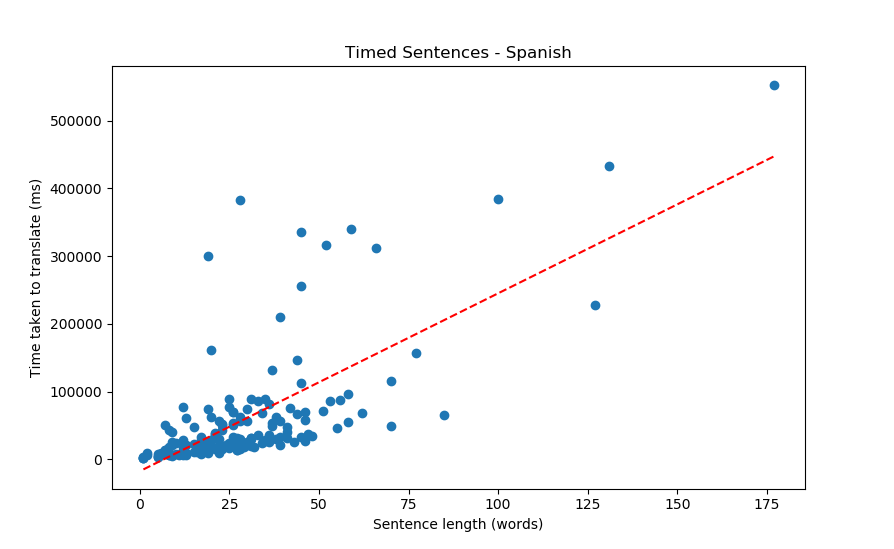
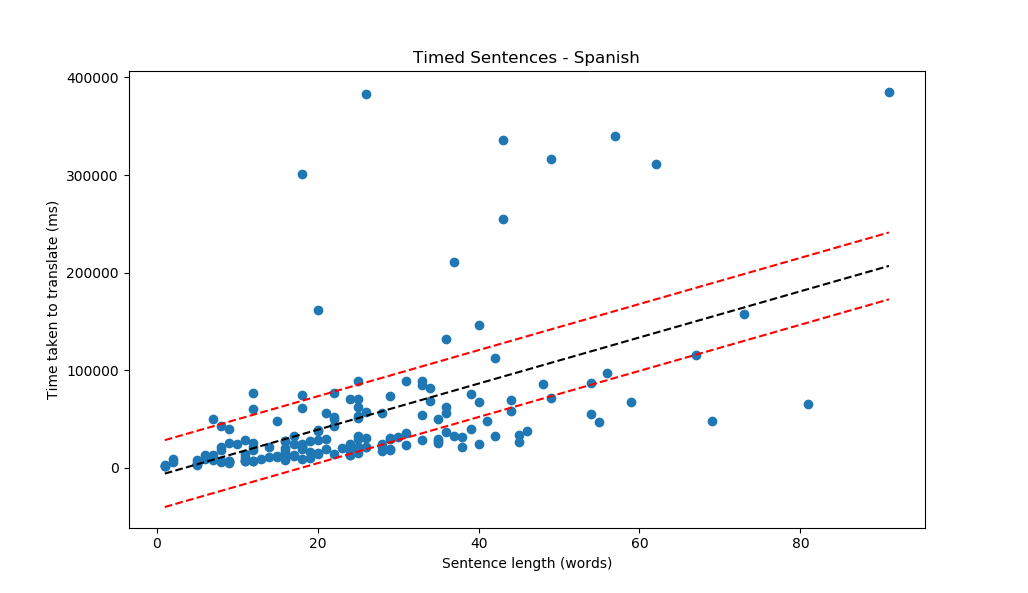
updating MAE lines and crossvalidation

diff --git a/README.md b/README.md
@@ -28,18 +28,18 @@ Need models that can predict TER on a sentence level and words per day on a docu
         * classification [done]    
     + WTO-timed [done]    
 - **2.** Correlation between Biber-dim and TER score:    
-    + UN-parallel (at sentence and document level)
-        * regression [sentence done]
-        * classification [sentece wip]
-    + cross-validation    
+    + UN-parallel (at sentence level)
+        * regression [done]
+        * classification [done]
+    + cross-validation [done]    
 - **3.** Use XLM to vectorise texts and correlate with TER score 
     + regression [done]
     + classification [done]
 - **4.** Use TER score to predict time taken or classify text difficulty [done]   
-    + Build classifiers + cross-validation 
+    + Build classifiers + cross-validation [done]
 - **5.** Use new timed dataset [done]
 
-scores so far (just an indication of what should work or not):
+Top scores so far (just an indication of what should work or not):
 
 | Classification accuracy (3-class) | words per day | TER |
 |-----------------------------------|---------------|-----|
@@ -120,6 +120,9 @@ WTO data has the advantage of including translation times to both French and Spa
 
 It is interesting to note that if outliers are not removed from the combined dataset, the regression becomes quite accurate in the range 0-2500 words per day, however, it also produces significant outliers that throw the entire model off. Could be interesting to only use the model in this range and figure out what produces said outliers (several orders of magnitude wrong).
 
+![UN_OLS](img/biber_wpd_kfold_ols.png)    
+**Figure 6.** Predicted against real values of words translated per day for the UNOG dataset (using biber dimensions and number of words in each document). Cross-validated results with 12 equal splits of data.
+
 Note: before extracting Biber dimensions, it is important to make sure there is one text per line and that there are no empty lines as this will cause _biber-dim.py_ to fail. Each corpus may have it's particular solutions. For example:
 
 ```bash
@@ -141,7 +144,7 @@ Computing the TER on a machine translation gives a score based on the minimum nu
 Note that in order to compute TER, both a machine translation and a human reference are required. See the [pre-processing](scripts/prepare_ter_docs.py) needed to compute TER for the UN corpus as an example. 
 
 ![UN_ES_Histogram](img/un_ter_hist.png)      
-**Figure 6.** Distribution of translation edit rate for machine translated sentences with human reference for UN documents after removal of top and bottom 5% of TER scores. Original documents in English translated to Spanish (left) and French (right).
+**Figure 7.** Distribution of translation edit rate for machine translated sentences with human reference for UN documents after removal of top and bottom 5% of TER scores. Original documents in English translated to Spanish (left) and French (right).
 
 It could be interesting to relate TER score with the Biber dimensions of the original text, to determine if any of these factors makes machine translation harder. 
 Preliminary results show no correlation between TER and biber dimensions on a sentence level - OLS and SVR on large UN corpus. There is inherent difficulty in this as Biber dimensions are designed to work on a document level whilst TER works best on a sentence level. 
@@ -149,16 +152,16 @@ Preliminary results show no correlation between TER and biber dimensions on a se
 ### Connecting TER and words per day
 TER and words translated per day are both measures of how difficult a text is to translate. However, TER is a measure of the difficulty for machine translation whilst words per day plays a similar role for human translation. We can assume these two are connected to a certain extent such that if a factor causes machine translation to be harder, it is likely to also contribute to a slower human translation. 
 
-It is challenging to connect TER and words per day because the former is computed on a sentence basis whilst the latter tends to be quoted per document. Another problem is that, whilst TER can be computed on any text with a human reference, there is a lack of open access information on time taken to translate. Having information on the time taken to translate for a small amount of sentences (around 200 sentences), the correlation between TER and time taken was found to be 0.228, whilst that between TER and rate of translation was -0.343 (see figure 7.). This is just an indication of the correlation as the data available is limited, however, it shows that machine translation and human translation are connected, albeit far from a one-to-one link.    
+It is challenging to connect TER and words per day because the former is computed on a sentence basis whilst the latter tends to be quoted per document. Another problem is that, whilst TER can be computed on any text with a human reference, there is a lack of open access information on time taken to translate. Having information on the time taken to translate for a small amount of sentences (around 200 sentences), the correlation between TER and time taken was found to be 0.228, whilst that between TER and rate of translation was -0.343 (see figure 8.). This is just an indication of the correlation as the data available is limited, however, it shows that machine translation and human translation are connected, albeit far from a one-to-one link.    
 
-![TER_WPS](img/ter_wps.png)      
-**Figure 7.** Correlation of TER of machine translated sentences versus words translated per second for human translation of the same sentences. This correlation hints to the existence of common factors in what makes translation difficult for MT and HT, however, both methods are quite different.  
+![TER_WPS](img/french_ter_wpd.png)      
+**Figure 8.** Correlation of TER of machine translated sentences versus words translated per mili-second for human translation of the same sentences. This correlation hints to the existence of common factors in what makes translation difficult for MT and HT, however, both methods are quite different.  
 
 ## Timed Sentences
-As both TER and XLM work on a sentence level, it is important to explore the difficulty to translate sentences. Figure 7 shows the correlation between the rate at which sentences were translated and the TER for the same sentences. Figure 8 displays the near-linear relationship between sentence length and time taken to translate, similar to that obtained on a document level in figure 1. 
+As both TER and XLM work on a sentence level, it is important to explore the difficulty to translate sentences. Figure 8 shows the correlation between the rate at which sentences were translated and the TER for the same sentences. Figure 9 displays the near-linear relationship between sentence length and time taken to translate, similar to that obtained on a document level in figure 1. 
 
 ![Fr_Timed_Sentences_Time_words](img/french_time_words.png)      
-**Figure 8.** Time taken to translate a sentence against the number of words in the sentence. Linear relationship, as expected, but there is a large spread, especially for longer sentences. Original sentences in English translated to French.
+**Figure 9.** Time taken to translate a sentence against the number of words in the sentence. Linear relationship, as expected, but there is a large spread, especially for longer sentences. Original sentences in English translated to French.
 
 ## Text Data Pre-Training
 See [XLM](https://github.com/facebookresearch/XLM) for PyTorch original implementation of Cross-lingual Language Model Pretraining.     
